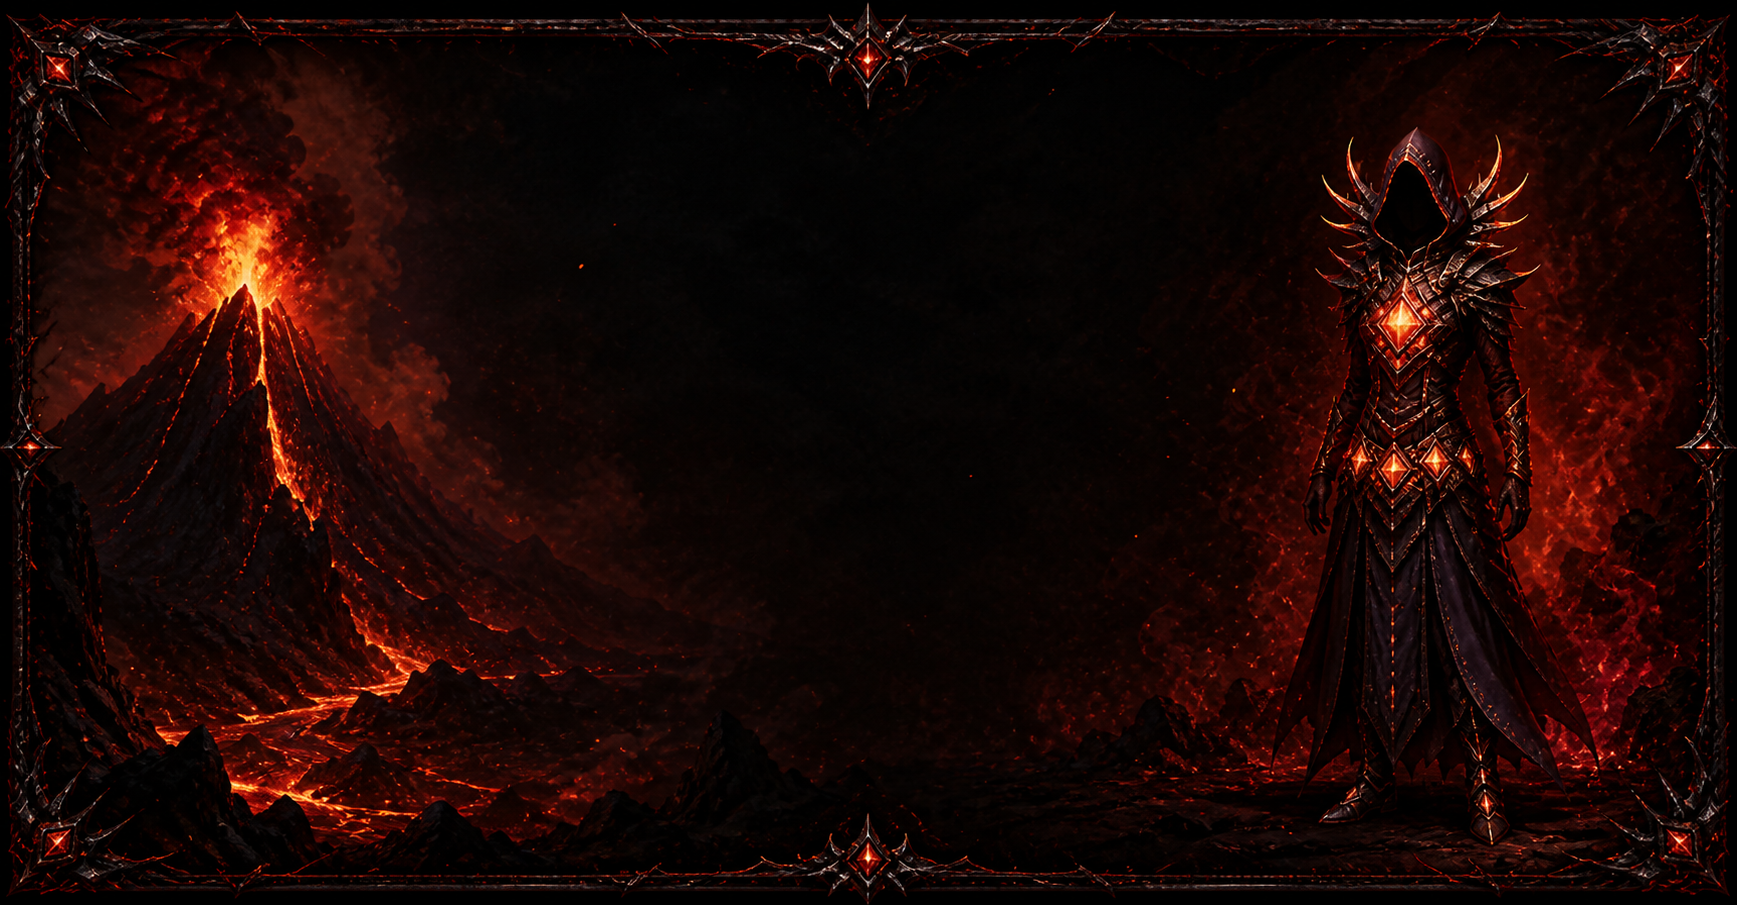
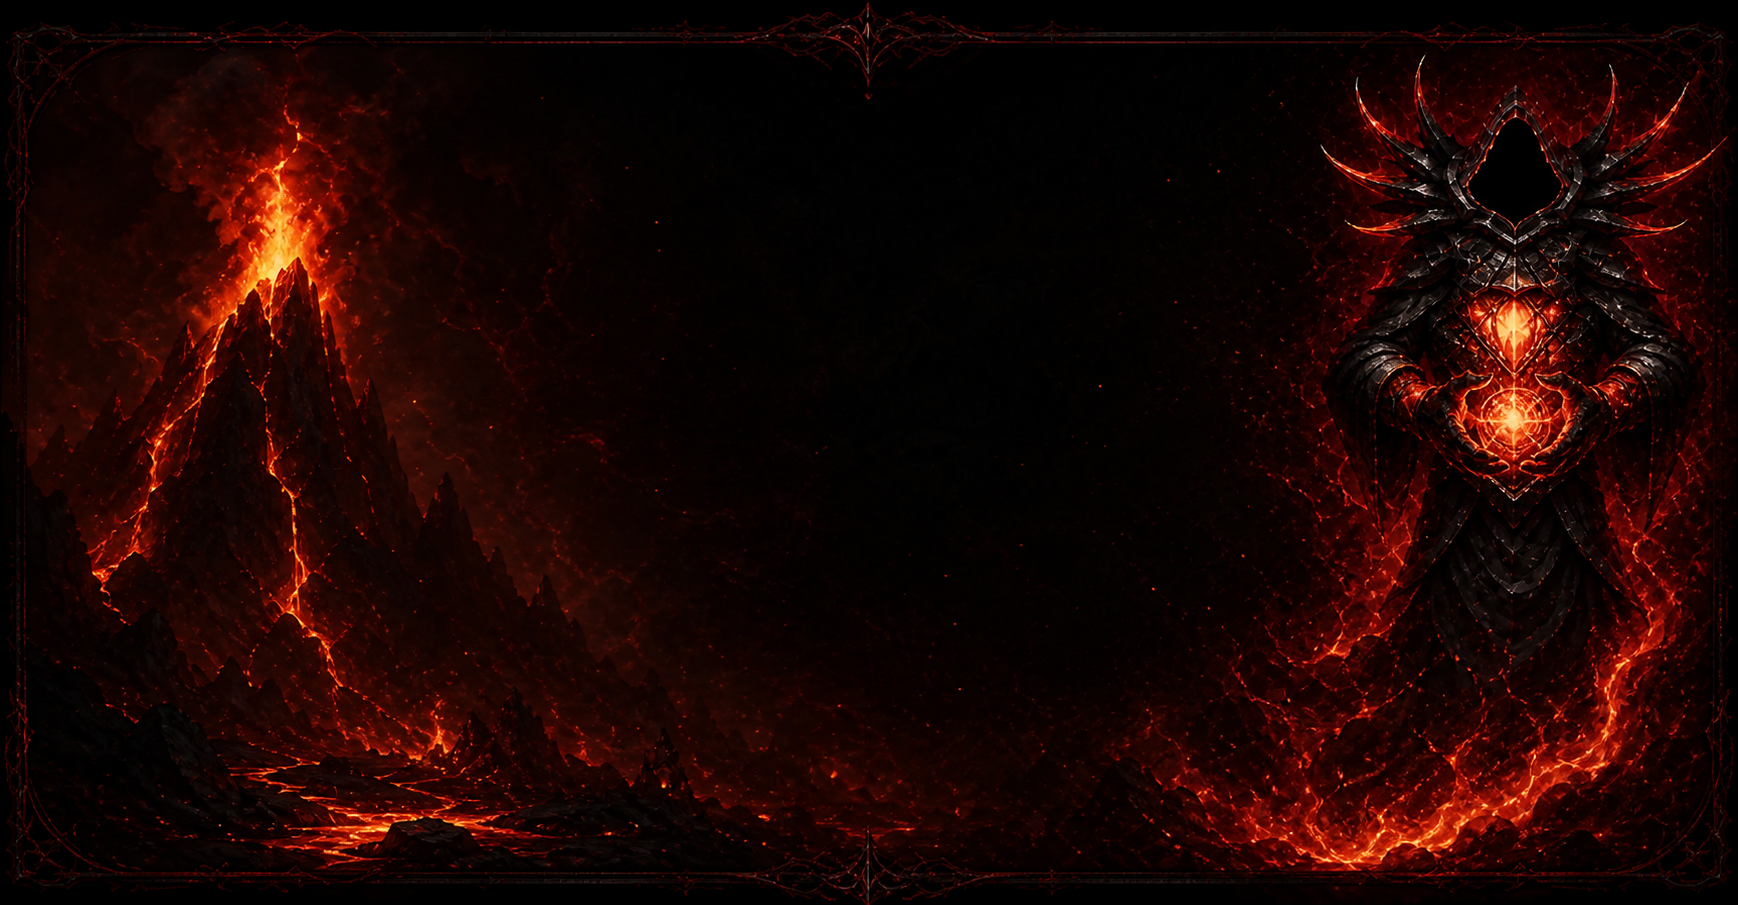
Use fire-orb Archmage with volcano

Changed region(s): [[0.0, 0.0, 1.0, 1.0], [0.342, 0.526, 0.3731, 0.5569]]

diff --git a/Margonem-Crimson-Character-Backgrounds.user.js b/Margonem-Crimson-Character-Backgrounds.user.js
@@ -1,7 +1,7 @@
 // ==UserScript==
 // @name         Margonem Crimson - Tła postaci
 // @namespace    https://github.com/bSlawek-03/Margonem-Crimson
-// @version      5.3.0
+// @version      5.4.0
 // @description  Panel do przypisywania RAW tła do postaci Margonem.
 // @author       Slawek
 // @match        https://*.margonem.pl/*
@@ -15,7 +15,7 @@
 (() => {
   'use strict';
 
-  const STORAGE_KEY = 'margonem-crimson-character-backgrounds-v15';
+  const STORAGE_KEY = 'margonem-crimson-character-backgrounds-v16';
 
   const characters = [
     { key: 'fourhead', label: 'Fourhead', level: '114', slot: 1 },
@@ -29,12 +29,12 @@
   const knownCharacters = characters.map((item) => item.key);
 
   const defaultUrls = {
-    fourhead: 'https://raw.githubusercontent.com/bSlawek-03/Margonem-Crimson/main/assets/titan-renegat-baulus-background.png?v=13',
-    twohead: 'https://raw.githubusercontent.com/bSlawek-03/Margonem-Crimson/main/assets/crimson-archdemon-background.png?v=13',
-    onehawk: 'https://raw.githubusercontent.com/bSlawek-03/Margonem-Crimson/main/assets/titan-versus-zoons-background.png?v=13',
-    threebane: 'https://raw.githubusercontent.com/bSlawek-03/Margonem-Crimson/main/assets/titan-lowcz-driady-background.png?v=13',
-    fivefang: 'https://raw.githubusercontent.com/bSlawek-03/Margonem-Crimson/main/assets/titan-tezcatlipoca-background.png?v=13',
-    'po prostu slawek': 'https://raw.githubusercontent.com/bSlawek-03/Margonem-Crimson/main/assets/titan-ice-king-background.png?v=13'
+    fourhead: 'https://raw.githubusercontent.com/bSlawek-03/Margonem-Crimson/main/assets/titan-renegat-baulus-background.png?v=14',
+    twohead: 'https://raw.githubusercontent.com/bSlawek-03/Margonem-Crimson/main/assets/crimson-archdemon-background.png?v=14',
+    onehawk: 'https://raw.githubusercontent.com/bSlawek-03/Margonem-Crimson/main/assets/titan-versus-zoons-background.png?v=14',
+    threebane: 'https://raw.githubusercontent.com/bSlawek-03/Margonem-Crimson/main/assets/titan-lowcz-driady-background.png?v=14',
+    fivefang: 'https://raw.githubusercontent.com/bSlawek-03/Margonem-Crimson/main/assets/titan-tezcatlipoca-background.png?v=14',
+    'po prostu slawek': 'https://raw.githubusercontent.com/bSlawek-03/Margonem-Crimson/main/assets/titan-ice-king-background.png?v=14'
   };
 
   const defaults = Object.fromEntries(characters.map((item) => [item.key, {
